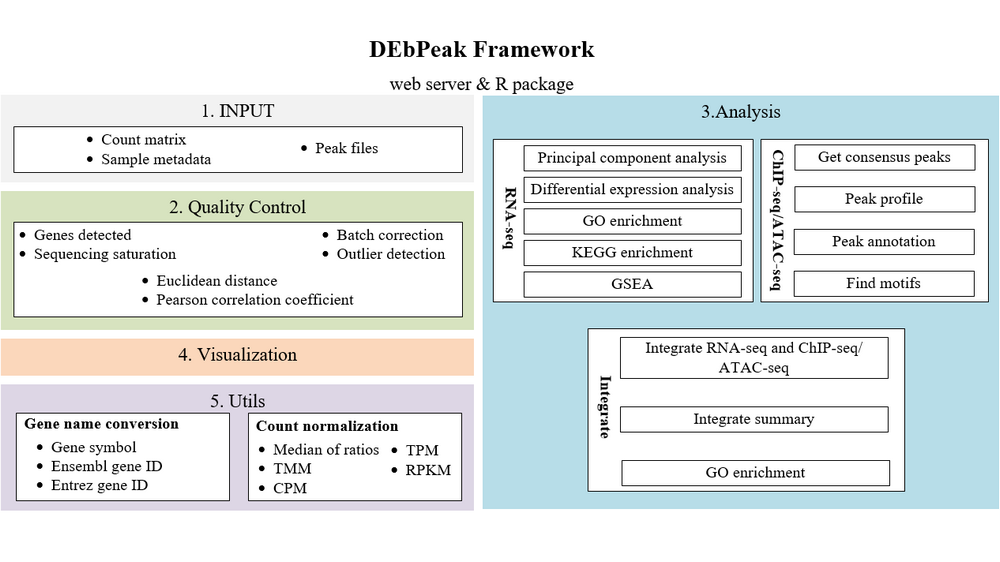
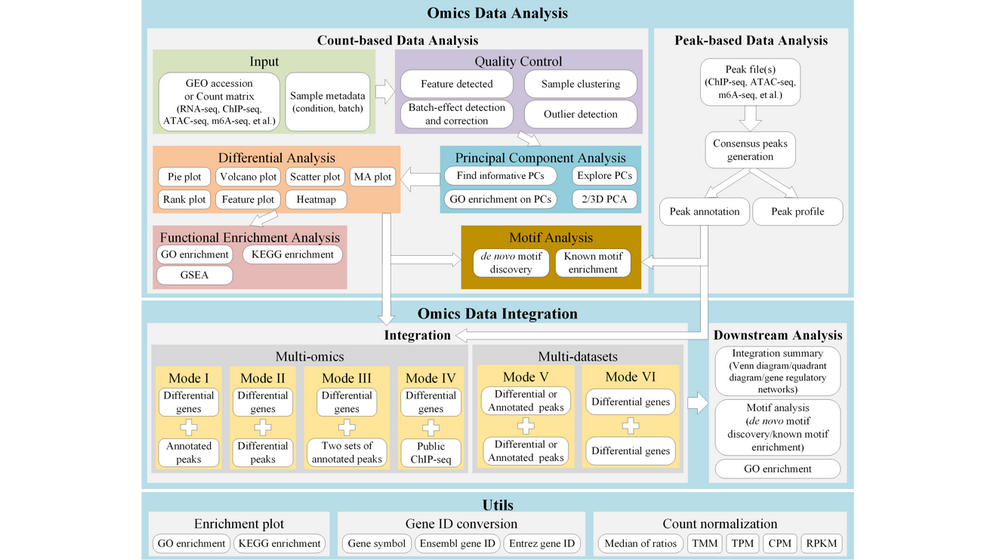
Update doc

diff --git a/README.md b/README.md
@@ -48,9 +48,20 @@ By the way, all plots generated are **publication-ready** , and most of them are
 <hr />
 
 ## Framework
+
 <div align="center">
 <img src="man/figures/DEbPeak_outline.png"  title="DEbPeak_framework"  alt="DEbPeak_framework" />
 </div>
+
+<hr />
+
+## Application scenarios for multi-omics integration
+
+<div align="center">
+<img src="man/figures/DEbPeak_scenarios.png"  title="DEbPeak_scenarios"  alt="DEbPeak_scenarios" />
+</div>
+
+<hr />
 
 ## Installation
 You can install the package via the Github repository:
@@ -285,7 +296,7 @@ Detailed usage is available in [here](https://showteeth.github.io/DEbPeak/). We 
   <tr>
     <td rowspan="8">Integrate RNA-seq with Peak-related Data</td>
     <td>DEbPeak</td>
-    <td>Integrate differential expression results and peak annotation/differential expression results.</td>
+    <td>Integrate differential expression results and peak annotation/differential analysis results.</td>
     <td>tidyverse</td>
   </tr>
   <tr>
